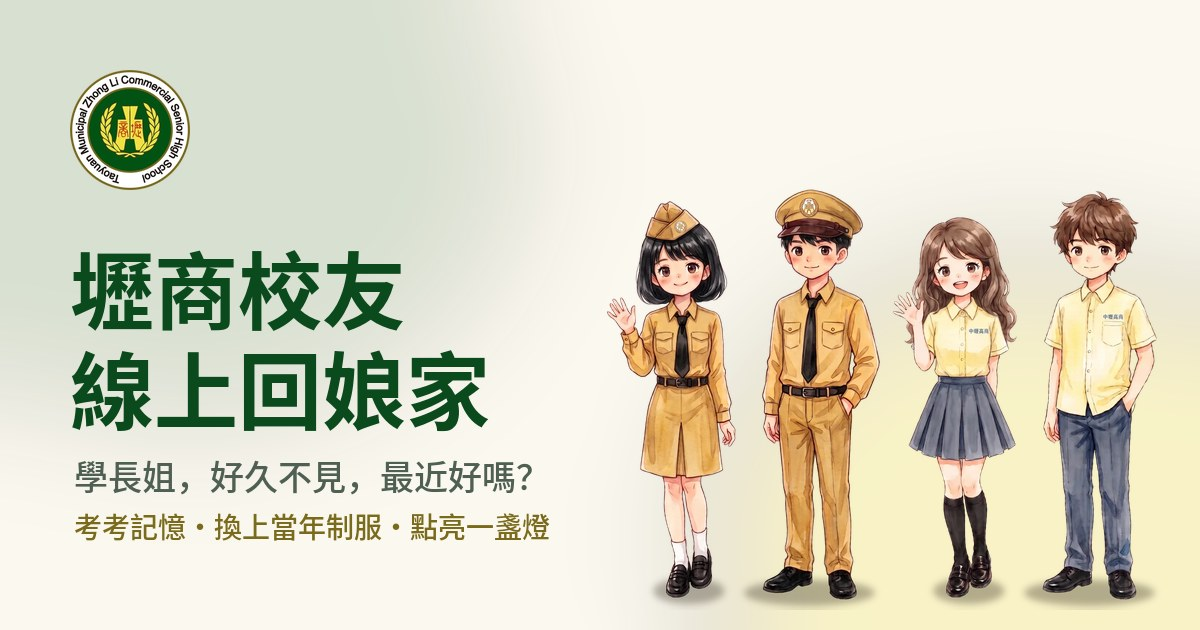
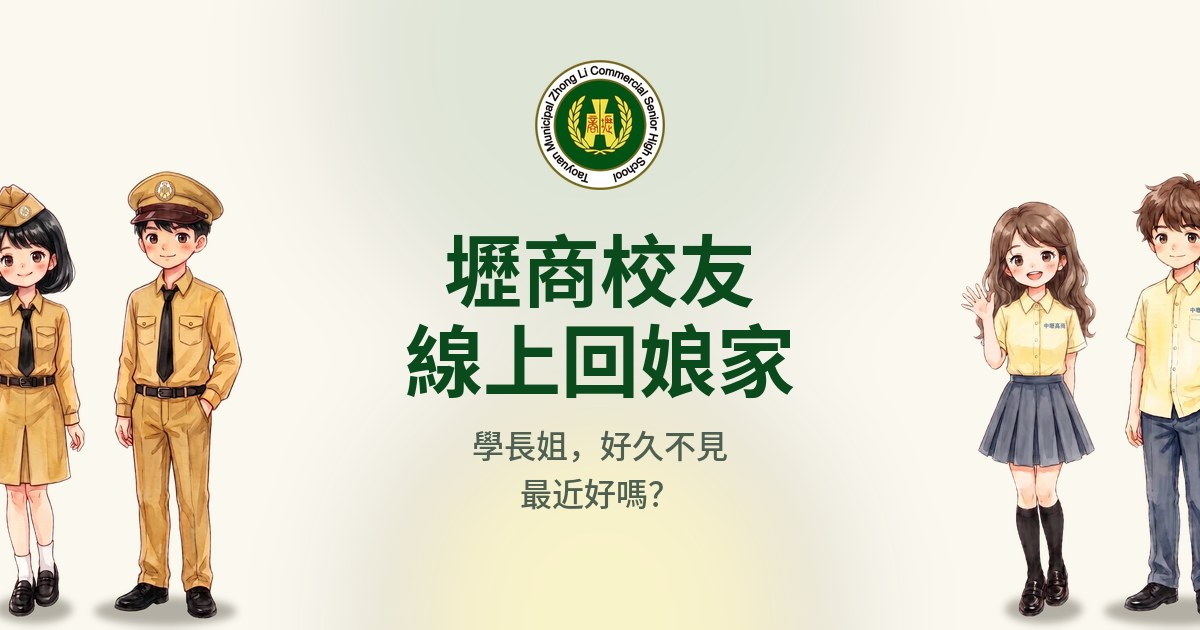
Add files via upload

diff --git a/index.html b/index.html
@@ -8,7 +8,7 @@
 <meta property="og:description" content="學長姐，歡迎回娘家！考考記憶、換上當年的制服，在校友地圖上點亮一盞燈。">
 <meta property="og:type" content="website">
 <meta property="og:url" content="https://clvscpractice1513.github.io/clvsc-alumni/">
-<meta property="og:image" content="https://clvscpractice1513.github.io/clvsc-alumni/share.jpg">
+<meta property="og:image" content="https://clvscpractice1513.github.io/clvsc-alumni/share.jpg?v=2">
 
 <meta name="viewport" content="width=device-width,initial-scale=1,viewport-fit=cover">
 <link rel="preconnect" href="https://fonts.googleapis.com">
@@ -303,7 +303,7 @@ a.btn{text-decoration:none;display:inline-flex;align-items:center}
   <main id="stage" aria-live="polite"></main>
 </div>
 
-<script>window.LS_PHOTOS={"gate47": "photos/gate47.webp", "gate48": "photos/gate48.webp", "gate76": "photos/gate76.webp", "gate80": "photos/gate80.webp", "gate87": "photos/gate87.webp", "gate115": "photos/gate115.webp", "xinyi65": "photos/xinyi65.webp", "xinyi68": "photos/xinyi68.webp", "xinyi78": "photos/xinyi78.webp", "xinyi115": "photos/xinyi115.webp", "court54": "photos/court54.webp", "court80": "photos/court80.webp", "court115": "photos/court115.webp", "shop81": "photos/shop81.webp", "shop115": "photos/shop115.webp", "lib47out": "photos/lib47out.webp", "lib47": "photos/lib47.webp", "lib89": "photos/lib89.webp", "zhidao90": "photos/zhidao90.webp", "tfte": "photos/tfte.webp", "mm": "photos/mm.webp", "hall81": "photos/hall81.webp", "dorm81": "photos/dorm81.webp", "dorm82": "photos/dorm82.webp", "it86": "photos/it86.webp", "gym87": "photos/gym87.webp", "pool": "photos/pool.webp", "court_bb": "photos/court_bb.webp"};window.LS_UNIFORMS={"1": "uniforms/1.webp", "2": "uniforms/2.webp", "3": "uniforms/3.webp", "4": "uniforms/4.webp", "5": "uniforms/5.webp", "6": "uniforms/6.webp", "7": "uniforms/7.webp", "8": "uniforms/8.webp", "9": "uniforms/9.webp", "10": "uniforms/10.webp", "11": "uniforms/11.webp", "12": "uniforms/12.webp", "13": "uniforms/13.webp"};</script>
+<script>window.LS_PHOTOS={"gate47": "photos/gate47.webp", "gate48": "photos/gate48.webp", "gate76": "photos/gate76.webp", "gate80": "photos/gate80.webp", "gate87": "photos/gate87.webp", "gate115": "photos/gate115.webp", "xinyi65": "photos/xinyi65.webp", "xinyi68": "photos/xinyi68.webp", "xinyi78": "photos/xinyi78.webp", "xinyi115": "photos/xinyi115.webp", "court54": "photos/court54.webp", "court80": "photos/court80.webp", "court115": "photos/court115.webp", "shop81": "photos/shop81.webp", "shop115": "photos/shop115.webp", "lib47out": "photos/lib47out.webp", "lib47": "photos/lib47.webp", "lib89": "photos/lib89.webp", "zhidao90": "photos/zhidao90.webp", "mm": "photos/mm.webp", "hall81": "photos/hall81.webp", "dorm81": "photos/dorm81.webp", "dorm82": "photos/dorm82.webp", "it86": "photos/it86.webp", "gym87": "photos/gym87.webp", "pool": "photos/pool.webp", "court_bb": "photos/court_bb.webp", "tfte1": "photos/tfte1.webp", "tfte2": "photos/tfte2.webp", "clvsc_air": "photos/clvsc_air.webp"};window.LS_UNIFORMS={"1": "uniforms/1.webp", "2": "uniforms/2.webp", "3": "uniforms/3.webp", "4": "uniforms/4.webp", "5": "uniforms/5.webp", "6": "uniforms/6.webp", "7": "uniforms/7.webp", "8": "uniforms/8.webp", "9": "uniforms/9.webp", "10": "uniforms/10.webp", "11": "uniforms/11.webp", "12": "uniforms/12.webp", "13": "uniforms/13.webp"};</script>
 <script src="song.js"></script>
 <script>
 /* =========================================================
@@ -413,7 +413,8 @@ const CONFIG = {
       ["dorm82","民國82年","民國82年的崇清村及操場"] ]},
     zhidao: { title:"志道大樓", items:[ ["zhidao90","民國90年","民國90年志道大樓完工"] ]},
     it:     { title:"資訊大樓", items:[ ["it86","民國86年","民國86年的資訊大樓（84年完工）"] ]},
-    tfte:   { title:"TFTE", fit:"contain", items:[ ["tfte","114學年度","114學年度落成的桃園市智慧金融與商務科技教育中心"] ]},
+    clvsc:  { title:"校門口的 CLVSC", fit:"contain", items:[ ["clvsc_air","現在","Google Earth 空拍圖上的 CLVSC 字樣（圖片來源：Google Earth）"] ]},
+    tfte:   { title:"智慧金融與商務科技教育中心", fit:"contain", items:[ ["tfte1","入口","中心入口：智慧商城、短影音行銷、AI理財實作"], ["tfte2","智慧商城","智慧商城體驗區：NFC、RFID、POS、智慧貨架、智能自取貨櫃"] ]},
     multimedia: { title:"多媒體設計科", fit:"contain", items:[ ["mm","115學年度","多媒體設計科的教育目標"] ]}
   },
 
@@ -481,7 +482,7 @@ const CONFIG = {
   // 一般小知識（依序穿插）。之後想加姊妹校、新建築等，照格式往下加
   FACTS: [
     { photo:"multimedia", when:"115學年度", title:"多了一個新科：多媒體設計科", body:"壢商在115學年度新設多媒體設計科並開始招生，在商業專業之外，也開始培養數位設計人才。" },
-    { photo:"tfte", when:"114學年度", title:"智慧金融教育中心成立", body:"114學年度，壢商成立「桃園市智慧金融與商務科技教育中心」（TFTE），打造跨域實作場域，培育智慧商務的新世代人才。" },
+    { photo:"tfte", when:"114學年度", title:"智慧金融教育中心成立", body:"114學年度，壢商成立「桃園市智慧金融與商務科技教育中心」，有智慧商城、短影音行銷、AI理財實作等場域，學弟妹可以實際操作 NFC、POS、智慧貨架等新科技。" },
     { when:"112年8月", title:"現在的校長是鄒岳廷校長", body:"從首任的鄭達麟校長到現在的鄒岳廷校長，壢商一共經歷了12位校長（含兩位代理）。" },
     { when:"66–102年", title:"空中商專在壢商待了36年", body:"66年起，國立臺北商專的空中商專中壢教學輔導處就設在壢商校內，和壢商共用校園36年，102年才搬到平鎮。" },
     { photo:"lib", when:"民國47年～106年", title:"圖書館的變化", body:"民國47年的圖書室是一棟小平房；83年新的圖書館完工，106年初又完成圖書館空間改造和運動場整建。有空回來走走，看看跟你記憶中的樣子還一樣嗎？" },
@@ -490,6 +491,7 @@ const CONFIG = {
     { photo:"court", gallery:true, when:"民國54年～現在", title:"前後排教室的那塊地方", body:"行政大樓和信義大樓之間，以前是一排排的前後排教室。點年份看看，現在變成什麼樣子了。" },
     { photo:"shop", gallery:true, when:"今昔", title:"還記得員生社嗎？", body:"員生社的全名是「員生消費合作社」，以前設在和平大樓地下室，有熱食部和飲料部，文具、便當、制服都買得到，還曾有手搖飲「休閒小站」進駐。現在員生社已經走入歷史，新羅浮宮二樓改由 OK 便利商店進駐，中午也可以訂學校的團膳，營養又方便。" },
     { photo:"gym", gallery:true, when:"民國87年", title:"游藝館裡有溫水游泳池", body:"民國87年落成的游藝館，裡面有 25 米溫水游泳池和室內籃球場，到現在都還在使用。" },
+    { photo:"clvsc", gallery:true, when:"現在", title:"從天上才看得到的 CLVSC", body:"大約民國101、102年，李世峰校長任內在校門口的地面做了「CLVSC」字樣，這是壢商改隸市立前的英文簡稱，到現在都還在喔！走在上面不容易發現，打開 Google Earth 從空中往下看，就能清楚看到。下次回母校，記得找找看。" },
     { photo:"hall", gallery:true, when:"民國81年", title:"中正堂已經拆除了", body:"當年師生集資興建的中正堂，現在已經拆除，原址蓋起了志道大樓。點下面的年份，看看同一個位置的今昔。" },
     { photo:"dorm", gallery:true, when:"民國78年", title:"壢商曾經有女生宿舍", body:"民國78年興建的女生宿舍叫做「崇清村」。這是民國81、82年的崇清村和操場。" }
   ],
@@ -840,7 +842,7 @@ async function drawKeepsake(me){
   const blob=(x,y,r,col)=>{ const gr=g.createRadialGradient(x,y,0,x,y,r); gr.addColorStop(0,col); gr.addColorStop(1,'rgba(255,255,255,0)'); g.fillStyle=gr; g.fillRect(0,0,W,H); };
   blob(300,520,520,u.bg); blob(820,780,460,u.bg); blob(160,1180,380,'rgba(241,223,69,.25)');
   g.strokeStyle='#dfd8c2'; g.setLineDash([14,10]); g.lineWidth=3; g.strokeRect(30,30,W-60,H-60); g.setLineDash([]);
-  drawSeal(g, W-150, H-330, 105, SEASON());   // 右下角的學年度鋼印
+  drawSeal(g, W-150, H-330, 105, S.keepSeason||SEASON());   // 右下角的學年度鋼印
[1 lines of base64/hex data omitted]
   g.fillStyle='#0b4a1d'; g.font=`700 30px ${body}`; g.textAlign='left'; g.textBaseline='middle'; g.fillText('壢商校友線上回娘家',W/2-115,98);
   g.textAlign='center'; g.font=`64px ${disp}`; g.fillText(`「${u.title}」`,W/2,195);
@@ -866,20 +868,50 @@ function keepsakeHTML(){
         <p class="hint" id="keepMsg" role="status">手機上也可以長按圖片儲存，再分享到 LINE 或 FB。</p>
       </div></div></div>`;
 }
+// 存圖：電腦直接下載；手機用系統分享（可存到相簿）；LINE 內建瀏覽器不能存圖，改用手機瀏覽器打開紀念圖
+const UA=navigator.userAgent||'';
+const IS_LINE=/\bLine\//i.test(UA);
+const IS_MOBILE=/Android|iPhone|iPad|iPod/i.test(UA) || (navigator.maxTouchPoints>1 && /Macintosh/.test(UA));
+let KEEP_BLOB=null, KEEP_URL='';
+async function showKeepsake(){
+  const data=await drawKeepsake(S.p); if(!data) return;
+  KEEP_BLOB=await (await fetch(data)).blob();
+  if(KEEP_URL) URL.revokeObjectURL(KEEP_URL);
+  KEEP_URL=URL.createObjectURL(KEEP_BLOB); $('#keepImg').src=KEEP_URL;
+}
+function keepLink(){   // 紀念圖資料放在 # 後面，不會傳到任何伺服器
+  const q=new URLSearchParams({u:S.p.uniform||'',v:S.p.uvar||0,y:S.p.year,d:S.p.division||'',p:S.p.dept||'',r:S.p.region||'',n:S.p.nick||'',s:SEASON()});
+  return siteURL()+'?openExternalBrowser=1#keep='+encodeURIComponent(q.toString());
+}
+async function saveKeepsake(){
+  const msg=$('#keepMsg'), name=`CLVSC-${S.keepSeason||SEASON()}-keepsake.jpg`;   // 英文檔名，各種電腦都不會變成亂碼
+  if(IS_LINE){ msg.textContent='LINE 裡面不能存圖，正在用手機的瀏覽器打開紀念圖，打開後再按一次「儲存圖片」。'; location.href=keepLink(); return; }
+  if(!KEEP_BLOB) return;
+  if(IS_MOBILE){
+    try{ const file=new File([KEEP_BLOB],name,{type:'image/jpeg'});
+      if(navigator.canShare && navigator.canShare({files:[file]})){ await navigator.share({files:[file]}); msg.textContent='在跳出的選單選「儲存影像」或「儲存到相簿」，也可以直接分享到 LINE。'; return; }
+    }catch(e){ if(e&&e.name==='AbortError') return; }
+  }
+  const a=document.createElement('a'); a.href=KEEP_URL; a.download=name; document.body.appendChild(a); a.click(); a.remove();
+  msg.textContent= IS_MOBILE ? '如果沒有開始下載，請長按圖片選「下載圖片」或「儲存圖片」。' : '圖片已下載，可以到「下載」資料夾找到它。';
+}
 function bindKeepsake(){
-  const draw=()=>drawKeepsake(S.p).then(url=>{ if(url) $('#keepImg').src=url; });
-  $('#nick').oninput=e=>{ S.p.nick=e.target.value.trim(); draw(); };
-  $('#keepRedo').onclick=()=>{ document.getElementById('wrap').classList.remove('wide'); S.editing=false; S.afterMap=true; runwayAfterMap(); };
-  $('#keepSave').onclick=async()=>{
-    const url=$('#keepImg').src, msg=$('#keepMsg');
-    try{
-      const blob=await (await fetch(url)).blob(), file=new File([blob],'壢商回娘家紀念圖.jpg',{type:'image/jpeg'});
-      if(navigator.canShare && navigator.canShare({files:[file]})){ await navigator.share({files:[file],title:'壢商校友線上回娘家'}); return; }
-      const a=document.createElement('a'); a.href=url; a.download='壢商回娘家紀念圖.jpg'; document.body.appendChild(a); a.click(); a.remove();
-      msg.textContent='如果沒有開始下載，請長按（或按右鍵）圖片另存。';
-    }catch(e){ if(e&&e.name==='AbortError') return; msg.textContent='請長按（或按右鍵）圖片另存。'; }
-  };
-  draw();
+  $('#nick').oninput=e=>{ S.p.nick=e.target.value.trim(); showKeepsake(); };
+  const rd=$('#keepRedo'); if(rd) rd.onclick=()=>{ document.getElementById('wrap').classList.remove('wide'); S.editing=false; S.afterMap=true; runwayAfterMap(); };
+  $('#keepSave').onclick=saveKeepsake;
+  $('#keepMsg').textContent = IS_LINE ? '在 LINE 裡打開時，按「儲存圖片」會改用手機瀏覽器打開，就能存到相簿。' : (IS_MOBILE ? '也可以長按圖片儲存，再分享到 LINE 或 FB。' : '也可以在圖片上按右鍵另存。');
+  showKeepsake();
+}
+// 從 LINE 轉到手機瀏覽器時，只顯示紀念圖
+function keepOnlyScreen(){
+  const q=new URLSearchParams(decodeURIComponent(location.hash.slice(6)));
+  Object.assign(S.p,{uniform:q.get('u'),uvar:+q.get('v')||0,year:+q.get('y'),division:q.get('d'),dept:q.get('p'),region:q.get('r'),nick:q.get('n')||''});
+  S.keepSeason=+q.get('s')||null;
+  if(!UNI(S.p.uniform)) return false;
+  show(`<section style="display:flex;flex-direction:column;gap:16px">${keepsakeHTML()}
+    <div class="row"><a class="linkbtn" href="${siteURL()}">回到線上回娘家首頁</a></div></section>`);
+  const rd=$('#keepRedo'); if(rd) rd.remove();
+  bindKeepsake(); return true;
 }
 // 地圖頁按「換一套制服」：只換紀念圖上的制服，換完回地圖
 function runwayAfterMap(){
@@ -1206,8 +1238,8 @@ function mapScreen(revisit){
 }
 function siteURL(){ if(CONFIG.SHARE_URL) return CONFIG.SHARE_URL; try{ return location.origin+location.pathname; }catch(e){ return ''; } }
 function shareText(){
-  const p=S.p, c=p.region?classNo():null;
-  const who = p.region ? `我是民國${p.year}年畢業的${c?`${divShort()}第${c}屆`:''}校友，剛剛回母校「線上回娘家」，在地圖上幫${regionName(p.region)}點亮了一盞燈！` : '母校中壢高商辦了「線上回娘家」！';
+  const p=S.p;
+  const who = p.region ? `我剛剛回母校「線上回娘家」，在地圖上幫「${regionName(p.region)}」點亮了一盞燈！` : '母校中壢高商辦了「線上回娘家」！';
   return `【壢商校友線上回娘家】\n${who}\n考考自己還記得多少壢商的事、看看母校這些年的變化，也在地圖上點亮你住的地方。\n學長姐、同學們也一起回來看看吧！\n${siteURL()}`;
 }
 function drawTiles(rows){
@@ -1298,7 +1330,7 @@ function renderInfo(){
   const a=$('#all'); if(a) a.onclick=()=>{ SEL=null; drawMap(); };
 }
 
-welcome();
+if(!(location.hash.startsWith('#keep=') && keepOnlyScreen())) welcome();
 // 首頁顯示後，趁校友在答題時，背景先把制服圖（優先）和照片下載好，之後換裝不用等
 const IMG_CACHE={};
 function preload(src){ if(!src||IMG_CACHE[src]) return IMG_CACHE[src]; const i=new Image(); i.decoding='async'; IMG_CACHE[src]=new Promise(r=>{ i.onload=i.onerror=()=>r(i); }); i.src=src; return IMG_CACHE[src]; }
